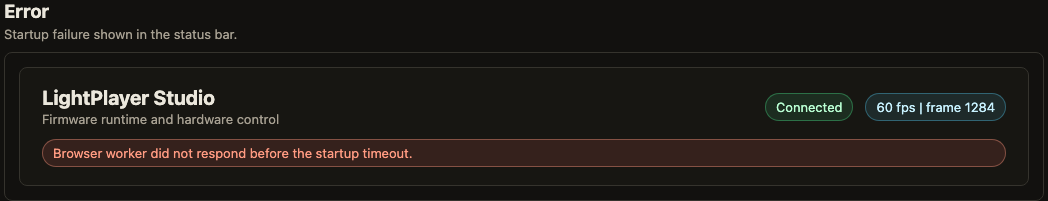
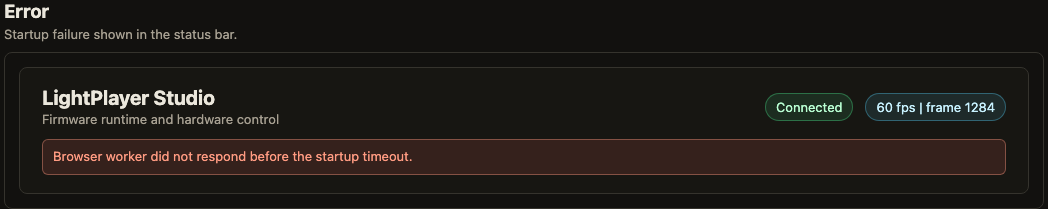
fix: harden esp32 serial framing

diff --git a/lp-app/lp-studio-web/src/style.css b/lp-app/lp-studio-web/src/style.css
@@ -91,7 +91,6 @@ button:disabled {
 
 .status-pill,
 .status-metric,
-.status-error,
 .mini-count {
   border-radius: 999px;
   padding: 5px 10px;
@@ -116,9 +115,16 @@ button:disabled {
 
 .status-error {
   grid-column: 1 / -1;
+  border: 1px solid rgba(255, 155, 130, 0.4);
+  border-radius: 6px;
   border-color: rgba(255, 155, 130, 0.4);
   background: var(--danger-bg);
   color: var(--danger-text);
+  padding: 8px 10px;
+  font-size: 13px;
+  line-height: 1.35;
+  overflow-wrap: anywhere;
+  white-space: pre-wrap;
 }
 
 .studio-grid {
@@ -323,6 +329,34 @@ button:disabled {
   gap: 8px;
 }
 
+.diagnostic-list {
+  gap: 8px;
+}
+
+.diagnostic-card {
+  display: grid;
+  gap: 6px;
+  border: 1px solid rgba(255, 155, 130, 0.38);
+  border-radius: 6px;
+  background: var(--danger-bg);
+  color: var(--danger-text);
+  padding: 9px;
+}
+
+.diagnostic-card strong {
+  font-size: 12px;
+  text-transform: uppercase;
+}
+
+.diagnostic-card p {
+  margin: 0;
+  color: var(--danger-text);
+  font-size: 12px;
+  line-height: 1.35;
+  overflow-wrap: anywhere;
+  white-space: pre-wrap;
+}
+
 .issue-card {
   display: grid;
   gap: 8px;
@@ -348,6 +382,15 @@ button:disabled {
   grid-template-columns: 52px 96px minmax(0, 1fr);
   gap: 8px;
   min-width: 0;
+}
+
+.hardware-log-list li > span {
+  min-width: 0;
+}
+
+.hardware-log-list li > span:last-child {
+  overflow-wrap: anywhere;
+  white-space: pre-wrap;
 }
 
 .log-level {
@@ -419,6 +462,11 @@ dd {
 
 .diagnostic-line {
   color: var(--danger-text);
+}
+
+.log-list li {
+  overflow-wrap: anywhere;
+  white-space: pre-wrap;
 }
 
 .story-book {

diff --git a/lp-app/lp-studio-web/src/components/device_panel.rs b/lp-app/lp-studio-web/src/components/device_panel.rs
@@ -2,7 +2,7 @@ use dioxus::prelude::*;
 use lp_studio_core::{
     DeviceAccessStatus, DeviceFlowState, DeviceIssue, ProgressState, ProjectSelectionReason,
     ProviderAvailability, ProviderCardState, ProviderIntent, ProvisioningReason, RecoveryAction,
-    RecoveryReason, StudioLogEntry, StudioState,
+    RecoveryReason, StudioDiagnostic, StudioDiagnosticSeverity, StudioLogEntry, StudioState,
 };
 use lpa_link::LinkProviderId;
 
@@ -21,6 +21,13 @@ pub fn DevicePanel(
         .selected_provider_id()
         .cloned();
     let issues = state.device_manager.issues.clone();
+    let diagnostics = state
+        .diagnostics
+        .iter()
+        .rev()
+        .take(3)
+        .cloned()
+        .collect::<Vec<_>>();
     let logs = state.logs.iter().rev().take(5).cloned().collect::<Vec<_>>();
     let access = state
         .device_access
@@ -114,6 +121,15 @@ pub fn DevicePanel(
                     h3 { "Issues" }
                     for issue in issues {
                         IssueView { issue }
+                    }
+                }
+            }
+
+            if !diagnostics.is_empty() {
+                div { class: "device-section diagnostic-list",
+                    h3 { "Diagnostics" }
+                    for diagnostic in diagnostics {
+                        DiagnosticView { diagnostic }
                     }
                 }
             }
@@ -286,6 +302,16 @@ fn IssueView(issue: DeviceIssue) -> Element {
 }
 
 #[component]
+fn DiagnosticView(diagnostic: StudioDiagnostic) -> Element {
+    rsx! {
+        article { class: "diagnostic-card",
+            strong { "{diagnostic_severity_label(&diagnostic.severity)}" }
+            p { "{diagnostic.message}" }
+        }
+    }
+}
+
+#[component]
 fn LogLine(entry: StudioLogEntry) -> Element {
     rsx! {
         li {
@@ -293,6 +319,14 @@ fn LogLine(entry: StudioLogEntry) -> Element {
             span { class: "log-target", "{entry.target}" }
             span { "{entry.message}" }
         }
+    }
+}
+
+fn diagnostic_severity_label(severity: &StudioDiagnosticSeverity) -> &'static str {
+    match severity {
+        StudioDiagnosticSeverity::Info => "Info",
+        StudioDiagnosticSeverity::Warning => "Warning",
+        StudioDiagnosticSeverity::Error => "Error",
     }
 }
 

diff --git a/lp-app/lp-studio-web/src/stories/story_fixtures.rs b/lp-app/lp-studio-web/src/stories/story_fixtures.rs
@@ -312,6 +312,28 @@ pub fn studio_state_error() -> StudioState {
     state
 }
 
+pub fn studio_state_protocol_diagnostic() -> StudioState {
+    let mut state = studio_state_connected();
+    let message = concat!(
+        "malformed M! frame while waiting for response id=1 kind=project.list_loaded: ",
+        "missing field `min` at line 1 column 92; json={\\\"id\\\":0,\\\"msg\\\":{",
+        "\\\"heartbeat\\\":{\\\"fps\\\":{\\\"avg\\\":29.06281,\\\"sdev\\\":0,",
+        "\\\"miin\\\":29.102337,\\\"max\\\":29.102337},\\\"frame_count\\\":3065,",
+        "\\\"loaded_projects\\\":[{\\\"handle\\\":1,\\\"path\\\":\\\"/projects/basic\\\"}],",
+        "\\\"uptime_ms\\\":105318,\\\"memory\\\":{\\\"freeBytes\\\":154112,",
+        "\\\"totalBytes\\\":299008}}}}"
+    );
+    state
+        .diagnostics
+        .push(StudioDiagnostic::error(Some(ActionId::new(43)), message));
+    state.logs.push(StudioLogEntry::new(
+        StudioLogLevel::Warn,
+        "browser-serial",
+        message,
+    ));
+    state
+}
+
 pub fn studio_state_long_content() -> StudioState {
     let mut state = studio_state_ready();
     let long_session_id =

diff --git a/lp-fw/fw-esp32/src/serial/io_task.rs b/lp-fw/fw-esp32/src/serial/io_task.rs
@@ -91,15 +91,6 @@ const WRITE_TIMEOUT: Duration = Duration::from_millis(1000);
 /// large enough to avoid excessive syscalls. Resource snapshots can be 10KB+.
 const WRITE_CHUNK_SIZE: usize = 256;
 
-/// Async write with timeout. Returns false if the write timed out or errored.
-async fn timed_write<W: Write>(tx: &mut W, data: &[u8]) -> bool {
-    use embassy_futures::select::{Either, select};
-    match select(Timer::after(WRITE_TIMEOUT), Write::write(tx, data)).await {
-        Either::First(_) => false,
-        Either::Second(result) => result.is_ok(),
-    }
-}
-
 /// Write all data in chunks with per-chunk timeout. Prevents large messages
 /// (e.g. resource snapshots) from timing out mid-write and corrupting the stream
 /// by concatenating with the next message. Uses write_all per chunk to
@@ -216,7 +207,7 @@ async fn drain_outgoing_server_json_chunks<W: Write>(tx: &mut W, connected: bool
         match receiver.try_receive() {
             Ok(chunk) if connected => {
                 if !timed_write_all(tx, chunk.bytes()).await {
-                    let _ = timed_write(tx, b"\n").await;
+                    let _ = timed_write_all(tx, b"\n").await;
                     break;
                 }
             }
@@ -232,7 +223,10 @@ async fn drain_outgoing_messages<W: Write>(router: &MessageRouter, tx: &mut W, c
     loop {
         match receiver.try_receive() {
             Ok(msg) if connected => {
-                if !timed_write(tx, msg.as_bytes()).await {
+                if !timed_write_all(tx, b"\n").await {
+                    break;
+                }
+                if !timed_write_all(tx, msg.as_bytes()).await {
                     break;
                 }
             }
@@ -278,7 +272,7 @@ async fn drain_outgoing_server_msg<W: Write>(tx: &mut W, connected: bool) {
 
     // If a timeout interrupts a JSON frame before the trailing newline, separate the
     // next frame so host parsers can recover instead of concatenating two `M!` messages.
-    let _ = timed_write(tx, b"\n").await;
+    let _ = timed_write_all(tx, b"\n").await;
 }
 
 #[cfg(feature = "server")]
@@ -299,7 +293,7 @@ async fn timed_write_full_server_msg<W: Write>(
 ) -> bool {
     let mut buf = [0u8; 4 * 1024];
     let mut writer = StackJsonWriter::new(&mut buf);
-    if writer.write(b"M!").is_err() {
+    if writer.write(b"\nM!").is_err() {
         return false;
     }
     if ser_write_json::ser::to_writer(&mut writer, &msg).is_err() {

diff --git a/lp-app/lp-studio-web/src/components/device_panel_stories.rs b/lp-app/lp-studio-web/src/components/device_panel_stories.rs
@@ -8,9 +8,9 @@ use crate::stories::story_fixtures::{
     studio_state_flashing, studio_state_hardware_denied, studio_state_hardware_granted,
     studio_state_hardware_unsupported, studio_state_idle, studio_state_long_content,
     studio_state_multiple_project_selection_required, studio_state_probing_server,
-    studio_state_project_selection_required, studio_state_provider_catalog,
-    studio_state_reading_project_state, studio_state_ready, studio_state_recovery_required,
-    studio_state_requesting_access,
+    studio_state_project_selection_required, studio_state_protocol_diagnostic,
+    studio_state_provider_catalog, studio_state_reading_project_state, studio_state_ready,
+    studio_state_recovery_required, studio_state_requesting_access,
 };
 
 pub const STORIES: &[StoryDescriptor] = &[
@@ -55,6 +55,12 @@ pub const STORIES: &[StoryDescriptor] = &[
         "DevicePanel",
         "Long Session",
         "Long session identifiers should wrap cleanly.",
+    ),
+    StoryDescriptor::new(
+        "device/protocol-diagnostic",
+        "DevicePanel",
+        "Protocol Diagnostic",
+        "Malformed protocol diagnostics remain readable.",
     ),
     StoryDescriptor::new(
         "flow/provider-catalog",
@@ -159,6 +165,9 @@ pub fn render_story(id: &str) -> Option<Element> {
         "device/hardware-denied" => Some(device_story(studio_state_hardware_denied(), false)),
         "device/hardware-granted" => Some(device_story(studio_state_hardware_granted(), false)),
         "device/long-session" => Some(device_story(studio_state_long_content(), false)),
+        "device/protocol-diagnostic" => {
+            Some(device_story(studio_state_protocol_diagnostic(), false))
+        }
         "flow/provider-catalog" => Some(device_story(studio_state_provider_catalog(), false)),
         "flow/requesting-access" => Some(device_story(studio_state_requesting_access(), true)),
         "flow/access-canceled" => Some(device_story(studio_state_access_canceled(), false)),

diff --git a/lp-app/lp-studio-runtime/src/browser_serial_protocol_client.rs b/lp-app/lp-studio-runtime/src/browser_serial_protocol_client.rs
@@ -14,6 +14,9 @@ use crate::browser_serial_shim;
 use crate::protocol_event::client_event;
 use crate::{StudioRuntimeError, demo_project};
 
+const MALFORMED_PROTOCOL_SNIPPET_LIMIT: usize = 4_096;
+const DEVICE_LOG_SNIPPET_LIMIT: usize = 1_024;
+
 pub struct BrowserSerialProtocolClient {
     port_id: u32,
     client: LpClient<BrowserSerialClientIo>,
@@ -192,7 +195,7 @@ impl BrowserSerialClientIo {
         match json::from_str::<WireServerMessage>(json_frame) {
             Ok(response) => Ok(Some(response)),
             Err(error) => {
-                let snippet = line_snippet(json_frame, 240);
+                let snippet = line_snippet(json_frame, MALFORMED_PROTOCOL_SNIPPET_LIMIT);
                 let issue = format!("{error}; json={snippet}");
                 self.record_malformed_frame(issue.clone());
                 if let Some(next_frame) = nested_protocol_frame(json_frame) {
@@ -361,7 +364,10 @@ fn studio_error_to_transport(error: StudioRuntimeError) -> TransportError {
 }
 
 fn echo_device_line(line: &str) {
-    let message = format!("[fw-esp32] {}", line_snippet(line, 1_024));
+    let message = format!(
+        "[fw-esp32] {}",
+        line_snippet(line, DEVICE_LOG_SNIPPET_LIMIT)
+    );
     if line.starts_with("[ERROR]") {
         console_error(&message);
     } else if line.starts_with("[WARN]") {

diff --git a/lp-app/lpa-server/src/handlers.rs b/lp-app/lpa-server/src/handlers.rs
@@ -188,6 +188,16 @@ fn handle_load_project(
 ) -> Result<ServerMessagePayload, ServerError> {
     backtrace::set_oom_context("server handler: load project");
     log::info!("Loading project: {}", path.as_str());
+    let loaded_count = project_manager.list_loaded_projects().len();
+    if loaded_count > 0 {
+        log::info!(
+            "Unloading {loaded_count} project(s) before loading {}",
+            path.as_str()
+        );
+        log_memory(memory_stats, "load_project unload existing before");
+        project_manager.unload_all_projects()?;
+        log_memory(memory_stats, "load_project unload existing after");
+    }
     log_memory(memory_stats, "load_project before");
     let handle = project_manager.load_project(
         path,

diff --git a/lp-fw/fw-esp32/src/server_loop.rs b/lp-fw/fw-esp32/src/server_loop.rs
@@ -153,7 +153,9 @@ pub async fn run_server_loop<T: ServerTransport>(
         // Send heartbeat message periodically
         // See prior art: fw-esp32/src/tests/test_usb.rs heartbeat_task()
         // This implementation uses proper ServerMessage types with M! prefix
-        if current_time.saturating_sub(heartbeat_last_sent) >= HEARTBEAT_INTERVAL_MS {
+        if response_count > 0 {
+            heartbeat_last_sent = current_time;
+        } else if current_time.saturating_sub(heartbeat_last_sent) >= HEARTBEAT_INTERVAL_MS {
             // Get loaded projects from server
             let loaded_projects = server.project_manager().list_loaded_projects();
 

diff --git a/lp-fw/fw-esp32/src/transport.rs b/lp-fw/fw-esp32/src/transport.rs
@@ -161,7 +161,7 @@ impl ServerTransport for StreamingMessageRouterTransport {
                             return Ok(Some(msg));
                         }
                         Err(e) => {
-                            log::warn!("StreamingMessageRouterTransport: Failed to parse: {e}");
+                            log::debug!("StreamingMessageRouterTransport: Failed to parse: {e}");
                             continue;
                         }
                     }
@@ -198,7 +198,7 @@ where
 {
     let mut writer = ChunkedJsonWriter::new(channel);
     writer
-        .write_all(b"M!")
+        .write_all(b"\nM!")
         .map_err(|_| TransportError::ConnectionLost)?;
 
     let mut json = JsonWriter::new(writer);

diff --git a/lp-app/lpa-client/src/transport_serial/emulator.rs b/lp-app/lpa-client/src/transport_serial/emulator.rs
@@ -195,6 +195,9 @@ fn emulator_thread_loop(
                     continue;
                 }
             };
+            if message_str.is_empty() {
+                continue;
+            }
 
             // Check for M! prefix - protocol messages; non-M! lines are server logs
             if !message_str.starts_with("M!") {

diff --git a/lp-app/lpa-client/src/transport_serial/hardware.rs b/lp-app/lpa-client/src/transport_serial/hardware.rs
@@ -141,6 +141,9 @@ fn serial_thread_loop(
                 }
             };
             let line_str = line_str.trim_end_matches('\r');
+            if line_str.is_empty() {
+                continue;
+            }
 
             if let Some(observer) = &options.line_observer {
                 observer.observe_line(line_str);